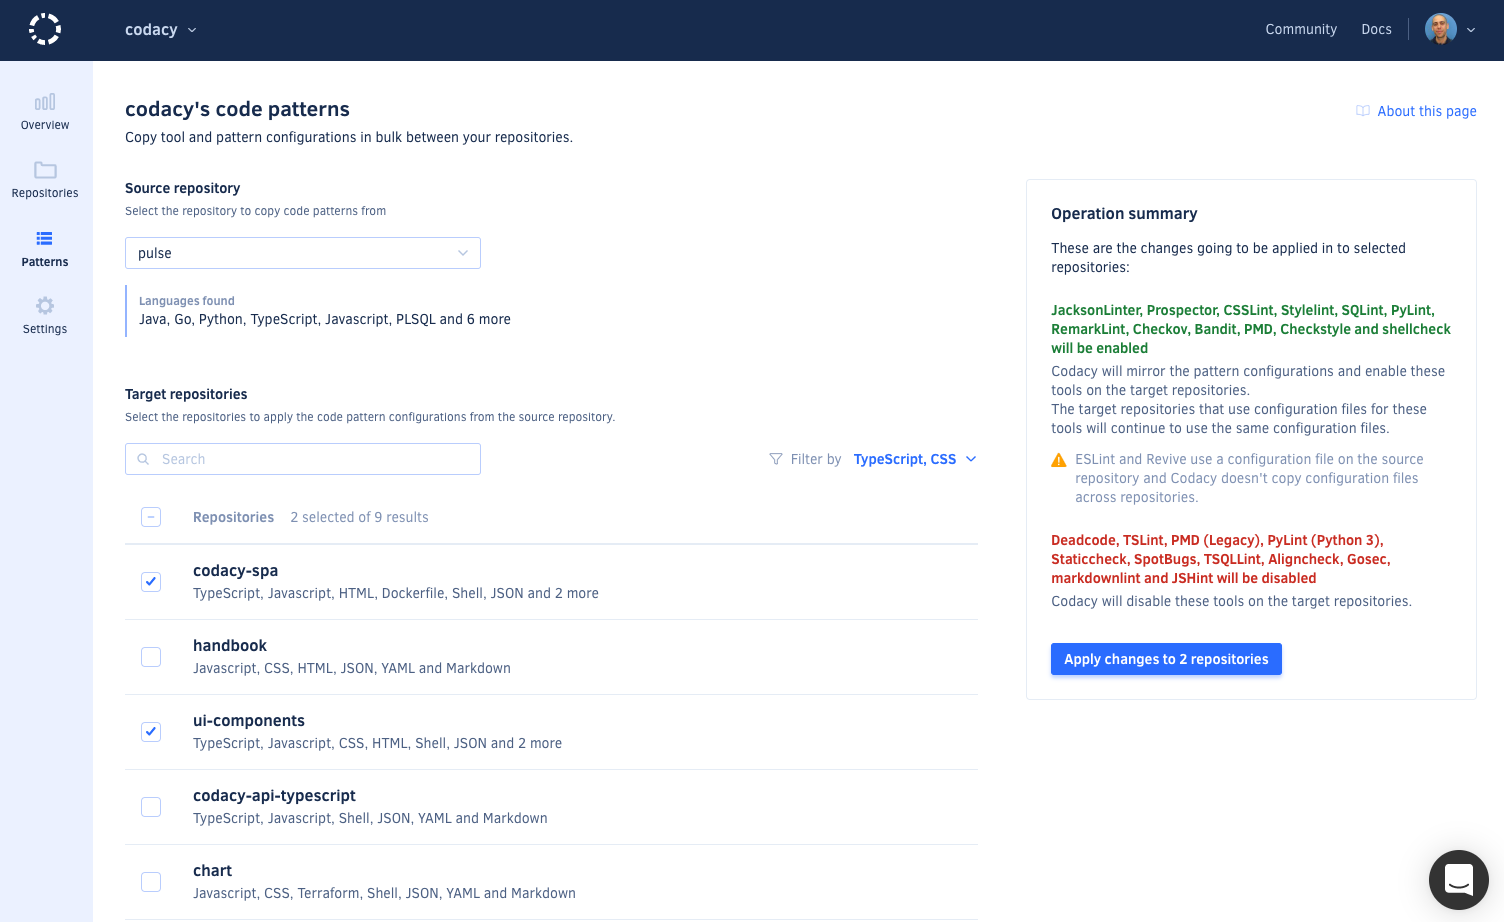
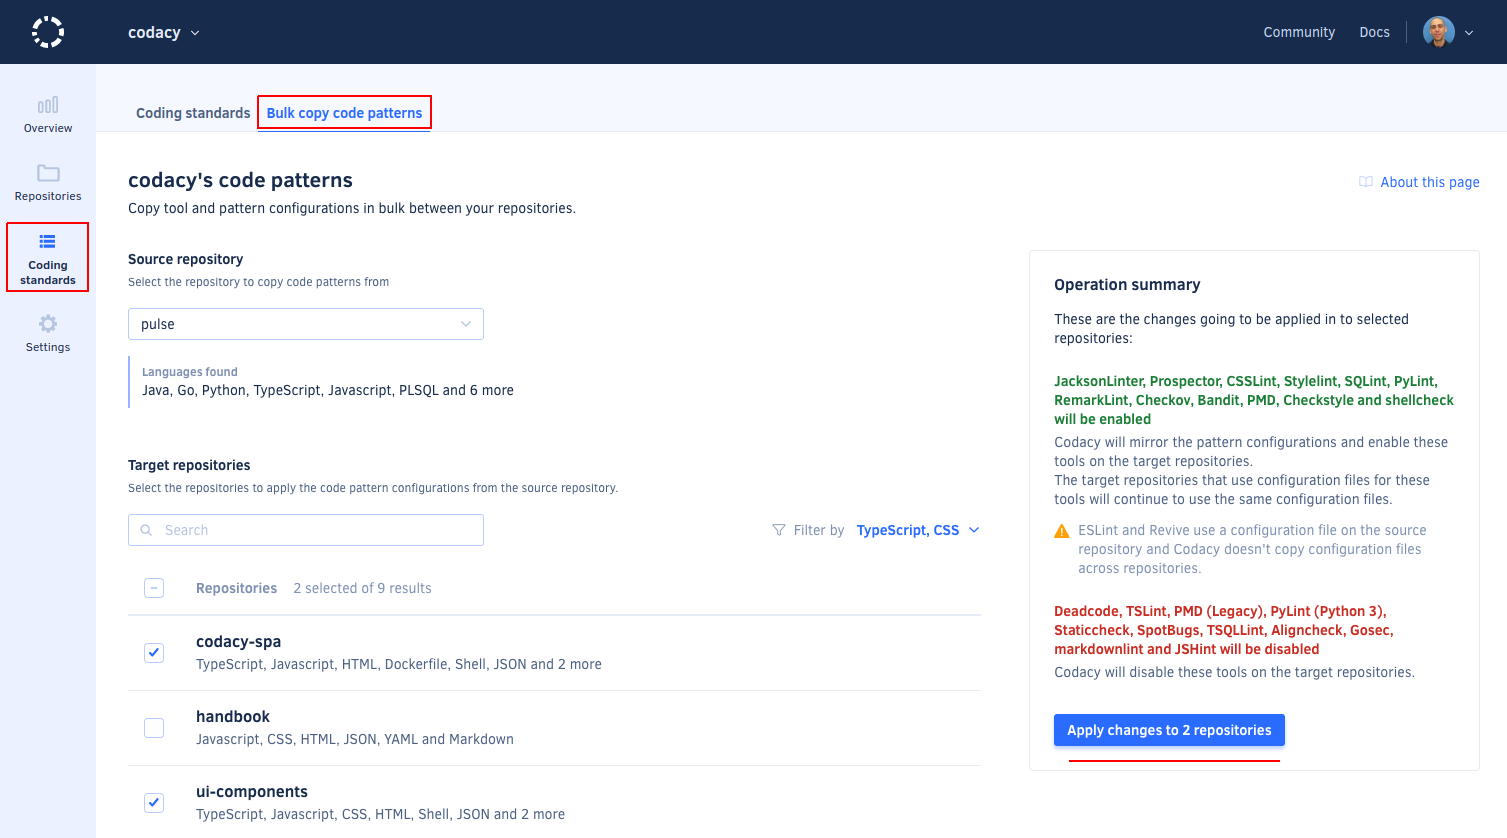
feature: Organization-level coding standard CY-4894 (#823)
* feature: Update "Copying code patterns between repositories" UI path

* wip: Add placeholder for new page "Using coding standards"

* wip: Draft for "Creating a coding standard"

* wip: Draft for "Editing a coding standard"

* wip: Draft for "Setting a coding standard as default"

* clean: Rename page for organization coding standard

To help clarify the fact that for now there can only be one coding
standard.

* feature: Cross-link pages related to managing code patterns

* feature: Add conceptual description of coding standard

* clean: Tweak see also links to mention applying the coding standard

* clean: Update "Configuring code patterns" and link to coding standard

* feature: Link "Copying code patterns" to coding standard

* clean: Apply review feedback and clean up TODO comments

* fix: Correct typo

* clean: Don't mention setting default coding standard

* clean: Review and edit introduction

* clean: Review and edit Creating/Editing a coding standard

* clean: Adjust See also cross references

* clean: Remove spurious trailing space

* feature: Add coding standard to roles and permissions table

* feature: Update coding standards screenshots

* feature: Update screenshot for bulk copy patterns

* clean: Resize bulk copy patterns screenshot

* clean: Edit introduction for Configuring code patterns

Clarify that Codacy enables only a subset of both the tools and the
corresponding code patterns by default.
[…]

diff --git a/docs/organizations/using-a-coding-standard.md b/docs/organizations/using-a-coding-standard.md
@@ -1,0 +1,95 @@
+# Using a coding standard
+
+Create a coding standard on your organization to define and apply shared tool and code pattern configurations consistently across your repositories.
+
+<!--NOTE
+    Add this sentence to the paragraph above when CY-5181 is complete.
+
+You can also apply the coding standard to new repositories automatically by defining the coding standard as default.
+ --->
+
+The organization coding standard helps you ensure that Codacy analyzes multiple repositories with the same tool and code pattern settings. For example, you can use the organization coding standard to ensure that all your repositories and teams are following the same security rules or coding conventions.
+
+When you customize the tools or code patterns of a repository that follows the coding standard, Codacy warns you that the repository will stop following the coding standard and asks for your confirmation.
+
+## Creating a coding standard {: id="creating"}
+
+To create a coding standard for your organization:
+
+1.  Open your organization **Coding standards** page, tab **Coding standards**.
+
+1.  Name your coding standard and click **Create standard**.
+
+    Optionally, select a repository that Codacy will use as a baseline to bootstrap the tool and pattern configurations for the new coding standard. This is useful if you already have a repository with code patterns configured that you wish to use as a template for creating the coding standard.
+
+    ![Creating a new coding standard](images/coding-standard-create.png)
+
+1.  Select all the programming languages that the new coding standard will cover and click **Next: Tools and patterns**.
+
+    The coding standard will only include configurations for the tools that support at least one of the selected languages.
+
+    ![Selecting the languages for the coding standard](images/coding-standard-select-languages.png)
+
+1.  Configure the tools and patterns of the coding standard and click **Next: Select and apply to repositories**.
+
+    -   Toggle the tools that Codacy will run when analyzing your code
+    -   For each enabled tool, configure the code patterns that the tool will use
+
+    You can use the filters to help you find the relevant tools and code patterns. The recommended configurations, that are either manually curated by Codacy or based on the default code patterns of the tools, are marked with the icon ![Recommended icon](images/coding-standard-recommended-icon.png).
+
+    ![Configuring the tools and patterns for the coding standard](images/coding-standard-configure-tools.png)
+
+1.  Select existing repositories that should follow the new coding standard and click **Save and apply standard**.
+
+    Codacy will start using the new coding standard on the next analysis of each selected repository.
+
+    ![Applying the coding standard to repositories](images/coding-standard-apply.png)
+
+<!--NOTE
+    Add this section when CY-5181 is complete.
+
+## Setting a coding standard as default {: id="set-default"}
+
+New repositories in your organization will automatically follow the default coding standard.
+
+To set a coding standard as default:
+
+1.  Open your organization **Coding standards** page, tab **Coding standards**.
+
+1.  Toggle **Make default** on the coding standard card.
+
+    ![Setting a coding standard as the default](images/coding-standard-set-default.png)
+-->
+
+## Editing a coding standard {: id="editing"}
+
+To edit an existing coding standard or change the repositories that follow that coding standard:
+
+1.  Open your organization **Coding standards** page, tab **Coding standards**.
+
+1.  Click the edit icon on the coding standard card.
+
+    ![Editing an existing coding standard](images/coding-standard-edit.png)
+
+1.  Make your changes to the current coding standard configurations and click the button **Next** to advance between the following pages:
+
+    -   The programming languages that the coding standard applies to
+    -   The tool and code pattern configurations of the coding standard
+    -   The repositories that follow the coding standard
+
+1.  Click the button **Save and apply standard** on the repository selection page to save your changes to the coding standard.
+
+    Codacy will start using the updated coding standard on the next analysis of each selected repository.
+
+<!--NOTE
+    Add this tip card when CY-5181 is complete.
+
+!!! tip
+    To ensure that all new repositories automatically follow the coding standard, [set the coding standard as default](#set-default).
+-->
+
+## See also
+
+-   [Copying code patterns between repositories](copying-code-patterns-between-repositories.md)
+-   [Configuring code patterns on each repository](../repositories-configure/configuring-code-patterns.md)
+-   [Importing pattern configurations from another repository](../repositories-configure/configuring-code-patterns.md#import-patterns)

diff --git a/docs/repositories-configure/configuring-code-patterns.md b/docs/repositories-configure/configuring-code-patterns.md
@@ -1,12 +1,15 @@
 ---
-description: Configure the tools and code patterns that Codacy uses to analyze your repositories to create a coding standard adapted to your scenario.
+description: Configure the static analysis tools and code patterns that Codacy uses to analyze your repositories to ensure that the analysis results are adapted to your scenario.
 ---
 
 # Configuring code patterns
 
-By default, Codacy uses a subset of the code patterns that exist for each tool to analyze your repositories. These default code patterns result from community feedback or existing coding standards.
+By default, Codacy uses a subset of the supported static analysis tools and code patterns to analyze your repositories. These default settings result from community feedback or existing coding standards. However, you can adapt the default settings to your scenario by configuring the tools and code patterns that Codacy uses to analyze your repository.
 
-However, you can create a coding standard adapted to your scenario by configuring the tools and code patterns that Codacy uses to analyze each repository:
+!!! note
+    If your repository is following an [organization coding standard](../organizations/using-a-coding-standard.md), changes made to any tool or code pattern cause the repository to stop following the coding standard. In this case Codacy asks for your confirmation before accepting the changes.
+
+To configure the tools and code patterns for your repository:
 
 1.  Open your repository **Code patterns** page.
 
@@ -55,12 +58,14 @@ Issues detected by Codacy belong to one of the following categories:
 
 ## Importing pattern configurations from another repository {: id="import-patterns"}
 
-Importing tool and code pattern configurations from another repository can help you bootstrap and standardize the coding standard across your repositories.
+Importing tool and code pattern configurations from another repository can help you bootstrap and standardize the tool and code pattern configurations across your repositories.
 
 For example, when adding a new repository on Codacy you can copy the tool and code pattern configurations from an existing repository that's already configured, and then tweak and adapt the settings for your new repository.
 
 !!! tip
-    You can also copy the tool and code pattern configurations [from one repository to multiple target repositories](../organizations/copying-code-patterns-between-repositories.md).
+    To ensure that multiple repositories consistently follow the same global tool and code pattern configurations, [use an organization coding standard](../organizations/using-a-coding-standard.md) instead.
+
+    Alternatively, you can also copy the tool and code pattern configurations [from one repository to multiple target repositories](../organizations/copying-code-patterns-between-repositories.md).
 
 <!--code-patterns-copy-start-->
 !!! important
@@ -349,4 +354,5 @@ The table below lists the configuration file names that Codacy detects and suppo
 
 ## See also
 
+-   [Applying a coding standard across multiple repositories](../organizations/using-a-coding-standard.md)
 -   [Copying code patterns between repositories](../organizations/copying-code-patterns-between-repositories.md)

diff --git a/docs/organizations/copying-code-patterns-between-repositories.md b/docs/organizations/copying-code-patterns-between-repositories.md
@@ -4,6 +4,9 @@ Copy [tool and pattern configurations](../repositories-configure/configuring-cod
 
 For example, when adding new repositories on Codacy you can copy the tool and pattern configurations from an existing repository that's already configured, and then tweak and adapt the settings for your new repositories.
 
+!!! tip
+    To ensure that multiple repositories consistently follow the same tool and code pattern configurations throughout your organization, [use a coding standard](../organizations/using-a-coding-standard.md) instead.
+
 {%
     include-markdown "../repositories-configure/configuring-code-patterns.md"
     start="<!--code-patterns-copy-start-->"
@@ -12,7 +15,7 @@ For example, when adding new repositories on Codacy you can copy the tool and pa
 
 To copy the tool and pattern configurations from one repository to other repositories:
 
-1.  Open your organization **Patterns** page.
+1.  Open your organization **Coding standards** page, tab **Bulk copy code patterns**.
 
 1.  Follow the instructions to select:
 
@@ -30,5 +33,6 @@ Codacy will use the updated configurations on the next analysis in each target r
 
 ## See also
 
--   [Configuring code patterns](../repositories-configure/configuring-code-patterns.md)
+-   [Applying a coding standard across multiple repositories](using-a-coding-standard.md)
+-   [Configuring code patterns on each repository](../repositories-configure/configuring-code-patterns.md)
 -   [Importing pattern configurations from another repository](../repositories-configure/configuring-code-patterns.md#import-patterns)

diff --git a/docs/organizations/roles-and-permissions-for-synced-organizations.md b/docs/organizations/roles-and-permissions-for-synced-organizations.md
@@ -16,7 +16,7 @@ Depending on your role on the Git provider you will have different permissions o
       <th>Ignore issues and files,<br/>configure code patterns and file extensions,<br/>manage branches</th>
       <th>Configure repository</th>
       <th>Add repository</th>
-      <th>Bulk copy patterns</th>
+      <th>Manage coding standards,<br/>Bulk copy patterns</th>
       <th>Invite and accept members,<br/>modify billing</th>
     </tr>
   </thead>
